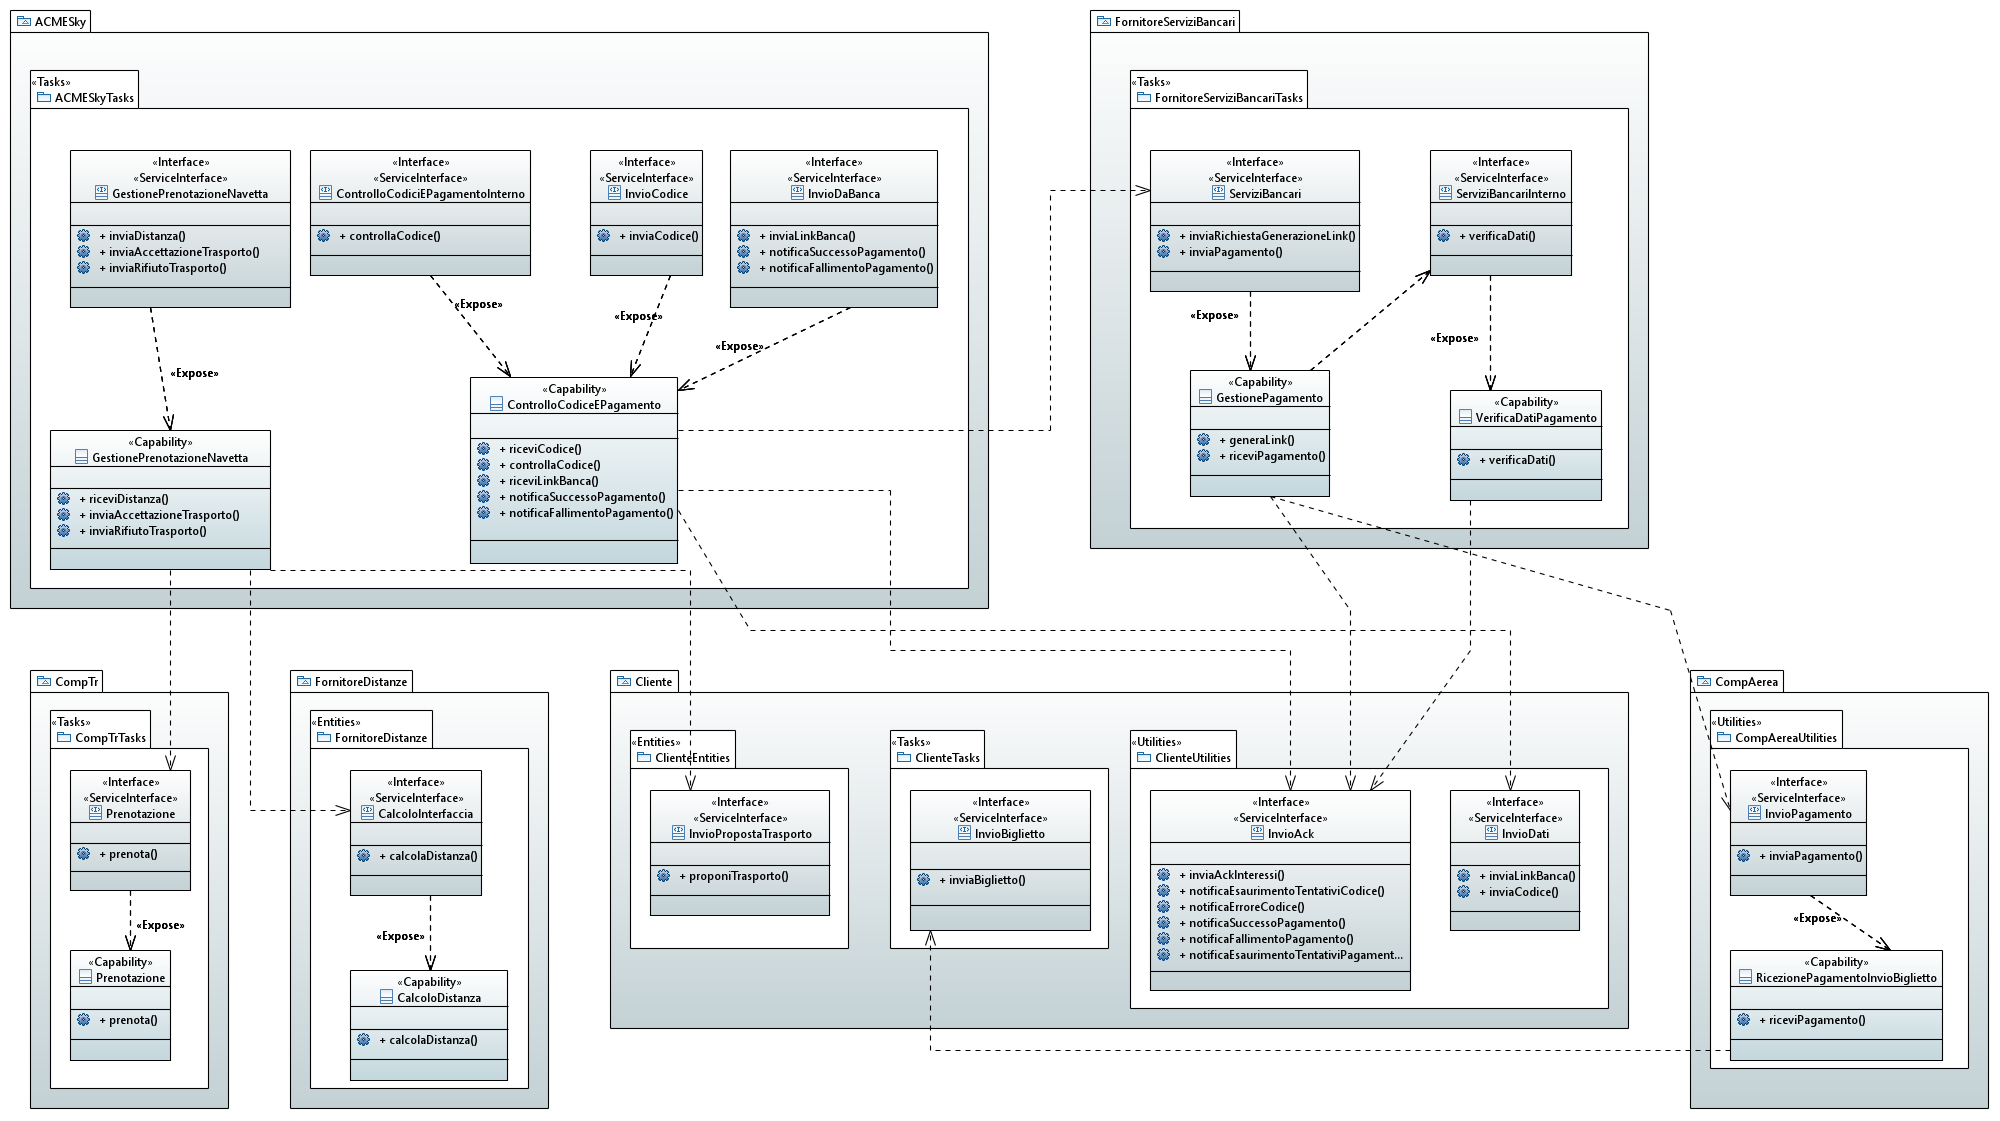
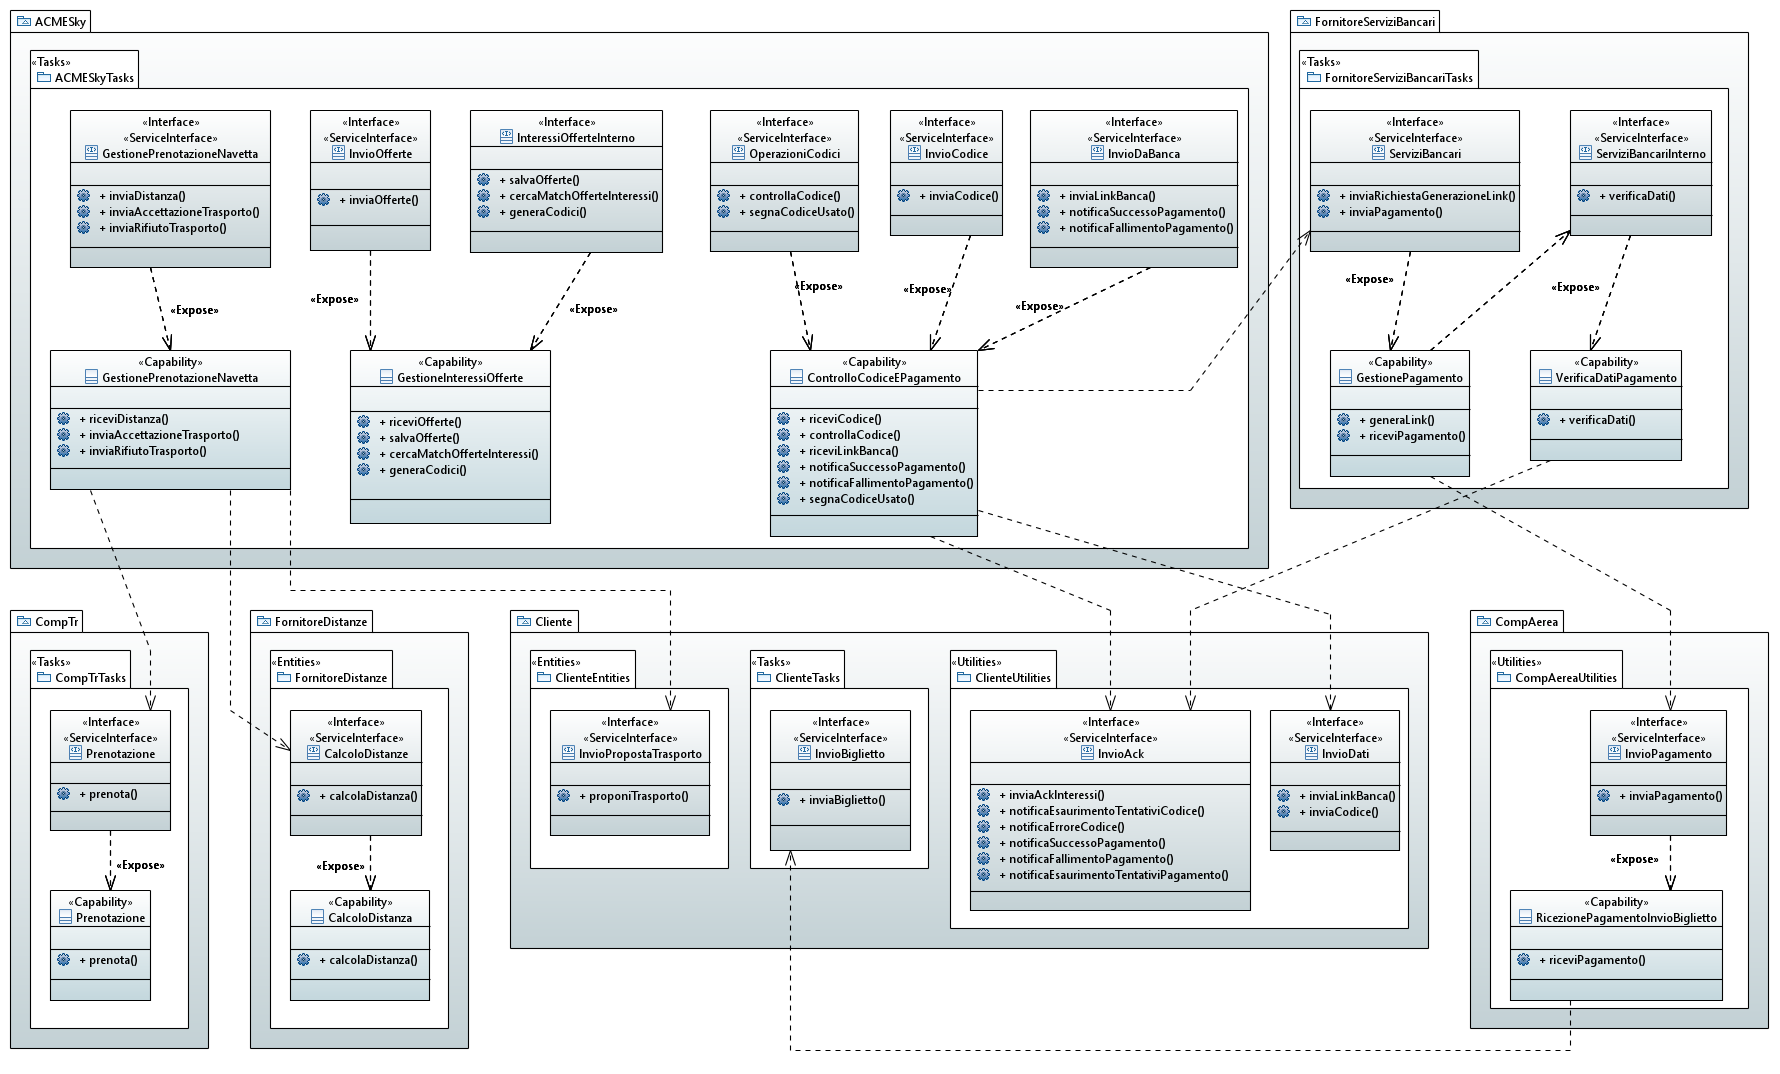
Modified 4 files

diff --git a/docs/5-modello-UML.md b/docs/5-modello-UML.md
@@ -19,6 +19,12 @@ Per una maggiore chiarezza, articoliamo anche la trattazione sul modello UML nel
 - Ricezione delle offerte LM e inoltro;
 - Acquisto del biglietto.
 
+<!-- theme: warning -->
+> **Convenzioni adottate nella formattazione**:
+> - `capability`
+> - **interfaccia**
+> - *operazione*
+
 ## Registrazione interessi degli utenti
 ![Modello UML con profilo TinySOA](https://github.com/MickPerl/soseng-project-documentation/blob/master/assets/images/UML_registra_interessi.png?raw=true
  "Modello UML relativo alla registrazione degli interessi degli utenti")
@@ -44,7 +50,7 @@ Le capability coinvolte sono:
 - `GestioneInteressiOfferte` è la capability di ACMESky, consistente nella ricezione e memorizzazione delle offerte ricevute dalle compagnie aeree, nella ricerca di match con gli interessi specificati dagli utenti e nella generazione di un codice per identificare la coppia offerta-utente: in dettaglio, le operazioni alla base sono esposte da due interfacce diverse, **InvioOfferte** che rende accessibile dall'esterno l'operazione *inviaOfferte* e **InteressiOfferteInterno** che rende accessibile internamente le operazioni *salvaOfferte*, *cercaMatchOfferteInteressi* e *generaCodici*;
   - dipende dalle interfacce **InoltroCodice** di Prontogram e **RichiestaOfferte** della compagnia aerea, in quanto, per finalizzarsi, deve richiedere le offerte alle compagnie aeree, invocando l'operazione *richiestaOfferte* dall'interfaccia **RichiestaOfferte** che espone la capability `RestituzioneOfferte` delle compagnie aeree, e deve inoltrare i codici generati ai clienti corrispondenti mediante l'interfaccia di Prontogram;  
 - `InoltroCodice` è la capability di Prontogram tramite cui inoltra agli specifici clienti i codici ricevuti da ACMESky ed è esposta dall'interfaccia **InoltroCodice**, la quale presenta l'operazione *inoltraCodice* che viene invocata da ACMESky per rendere avviare l'inoltro dei codici ai clienti corrispondenti;
-  - dipende dall'interfaccia `InvioDati` del cliente in quanto, per finalizzarsi, deve invocare l'operazione *inviaCodice* tramite cui invia il codice al cliente.
+  - dipende dall'interfaccia **InvioDati** del cliente in quanto, per finalizzarsi, deve invocare l'operazione *inviaCodice* tramite cui invia il codice al cliente.
 
 ## Ricezione e inoltro delle offerte LM
 Questa parte, ai fini del modello UML in oggetto, è ricompresa nella parte precedente in quanto, le compagnie aeree che intendono comunicare delle offerte last minute ad ACMESky invocano l'operazione *inviaOfferte* dell'interfaccia **InvioOfferte** di ACMESky, ossia la stessa operazione invocata quando le compagnie aeree restituiscono le offerte attive on demand.
@@ -57,17 +63,28 @@ Per distinguere un'offerta last minute da una ordinaria, abbiamo previsto nell'o
  "Modello UML relativo alla richiesta e all'inoltro delle offerte")
 
 Questa parte attiene alle seguenti attività:
-1. 
-la ricezione del codice di ACMESky e il controllo della sua validità;
-la richiesta del link di pagamento al fornitore dei servizi bancari da parte di ACMESky e la sua ricezione di quest'ultimo;
-l'invio del link di pagamento al cliente da parte di ACMESky;
-l'invio dei dati di pagamento al fornitore dei servizi bancari da parte del cliente
-la verifica dei dati di pagamento;
-l'invio della notifica circa l'esito del pagamento ai clienti da parte dei fornitori dei servizi bancari;
-l'invio dei fornitori dei servizi bancari della quota del pagamento ad ACMESky;
-l'invio dei fornitori dei servizi bancari della quota del pagamento alla compagnia aerea;
-l'invio del biglietto al cliente da parte della compagnia aerea;
-la richiesta di ACMESky al fornitore delle distanze circa la distanza tra
+1. la ricezione del codice di ACMESky e il controllo della sua validità;
+2. la richiesta del link di pagamento al fornitore dei servizi bancari da parte di ACMESky e la sua ricezione di quest'ultimo;
+3. l'invio del link di pagamento al cliente da parte di ACMESky;
+4. l'invio dei dati di pagamento al fornitore dei servizi bancari da parte del cliente
+5. la verifica dei dati di pagamento ad opera del fornitore dei servizi bancari;
+6. l'invio della notifica circa l'esito del pagamento ai clienti da parte dei fornitori dei servizi bancari;
+7. l'invio dei fornitori dei servizi bancari della quota del pagamento ad ACMESky;
+8. l'invio dei fornitori dei servizi bancari della quota del pagamento alla compagnia aerea;
+9. l'invio del biglietto al cliente da parte della compagnia aerea;
+10. la richiesta di ACMESky al fornitore delle distanze circa la distanza tra il domicilio dell'utente e l'aeroporto di partenza dell'aereo di suo interesse;
+11. la proposta del serivizio di trasporto al cliente da parte di ACMESky e la risposta del cliente;
+12. in caso l'utente accetti, la richiestadi ACMESky al fornitore delle distanze circa le distanze tra il domicilio dell'utente e le sedi delle compagnie di trasporto;
+13. la prenotazione di ACMESky di un servizio di trasporto;  
 
-
- 
+Le capability coinvolte sono:
+- `ControlloCodiceEPagamento` di ACMESky che le permette di ricevere il codice dall'utente, verificarne la validità, ricevere il link di pagamento dal fornitore di servizi bancari e ricevere la notifica dell'esito del pagamento; è esposta da diverse interfacce, quali **InvioCodice** che rende accessibile l'operazione *inviaCodice*, **ControlloCodiciEPagamentoInterno** che rende accessibile internamente *controlloCodice* e **InvioDaBanca** che rende accessibile *inviaLinkBanca*, *notificaSuccessoPagameto* e *notificaFallimentoPagamento*;
+  - dipende dalle interfacce **ServiziBancari** del Fornitore dei servizi bancari, in quanto ACMESky deve richiedere a questi ultimi la generazione del link di pagamento, **InvioDati** del cliente, in quanto deve inviargli il link di pagamento e **InvioAck** del cliente per comunicargli una notifica per l'esaurimento o incorrettezza del codice inviato;
+- `GestionePrenotazioneNavetta` di ACMESky che le permette di ricevere le distanze richieste e l'esito della proposta al cliente del servizio di traporto; è esposta dall'interfaccia **GestionePrenotazioneNavetta** che rende accessibile le operazioni *inviaDistanza*, *inviaAccettazioneTrasporto* e *inviaRifiutoTrasporto*;
+  - dipende dalle interfacce **CalcoloDistanze** del FornitoreDistanze che espone la capability `CalcoloDistanza`, in quanto deve richiedergli le distanze di interesse invocando *calcolaDistanza*, **InvioPropostaTrasporto** del cliente, in quanto deve potergli inviargli la proposta del servizio e **Prenotazione** della compagnia di traporto che espone `Prenotazione`, in quanto deve poter prenotarne il servizio, invocando *prenota*;
+- `GestionePagamento` di Fornitore dei servizi bancari che gli permette di generare il link di pagamento richiestogli da ACMESky e riceve il pagamento dal cliente; è esposta dall'interfaccia **ServiziBancari** che presenta le operazioni *inviaRichiestaGenerazioneLink* e *inviaPagamento*;
+  - dipende dalle interfacce **ServiziBancariInterno**, in quanto deve verificare i dati di pagamento invocando *verificaDati* e **InvioPagamento** della compagnia aerea, in quanto deve potergli recapitare la quota corrispondente;
+- `VerificaDatiPagamento` del fornitore dei servizi bancari che gli permette di verificare la validità dei dati di pagamento; è esposta da **ServiziBancariInterno** che presenta *verificaDati*;
+  - dipende dall'interfaccia **InvioAck** del cliente, in quanto deve notificargli l'esito del pagamento o l'esaurimento dei tentativi;
+- `RicezionePagamentoInvioBiglietto` della compagnia aerea che le permette di ricevere la quota del pagamento che gli spetta dal fornitore dei servizi bancari; è esposta da **InvioPagamento** che presenta *inviaPagamento*;
+  - dipende da **InvioBiglietto** del cliente, in quanto deve potergli inviare il biglietto, invocando l'operazione *inviaBiglietto*.

diff --git a/docs/4-diagramma-BPMN.md b/docs/4-diagramma-BPMN.md
@@ -25,3 +25,18 @@ Questa parte attiene alle seguenti attività:
 ## Ricezione e inoltro delle offerte LM
 
 ## Acquisto offerta
+
+Questa parte attiene alle seguenti attività:
+1. la ricezione del codice di ACMESky e il controllo della sua validità;
+2. la richiesta del link di pagamento al fornitore dei servizi bancari da parte di ACMESky e la sua ricezione di quest'ultimo;
+3. l'invio del link di pagamento al cliente da parte di ACMESky;
+4. l'invio dei dati di pagamento al fornitore dei servizi bancari da parte del cliente
+5. la verifica dei dati di pagamento ad opera del fornitore dei servizi bancari;
+6. l'invio della notifica circa l'esito del pagamento ai clienti da parte dei fornitori dei servizi bancari;
+7. l'invio dei fornitori dei servizi bancari della quota del pagamento ad ACMESky;
+8. l'invio dei fornitori dei servizi bancari della quota del pagamento alla compagnia aerea;
+9. l'invio del biglietto al cliente da parte della compagnia aerea;
+10. la richiesta di ACMESky al fornitore delle distanze circa la distanza tra il domicilio dell'utente e l'aeroporto di partenza dell'aereo di suo interesse;
+11. la proposta del serivizio di trasporto al cliente da parte di ACMESky e la risposta del cliente;
+12. in caso l'utente accetti, la richiestadi ACMESky al fornitore delle distanze circa le distanze tra il domicilio dell'utente e le sedi delle compagnie di trasporto;
+13. la prenotazione di ACMESky di un servizio di trasporto;  
